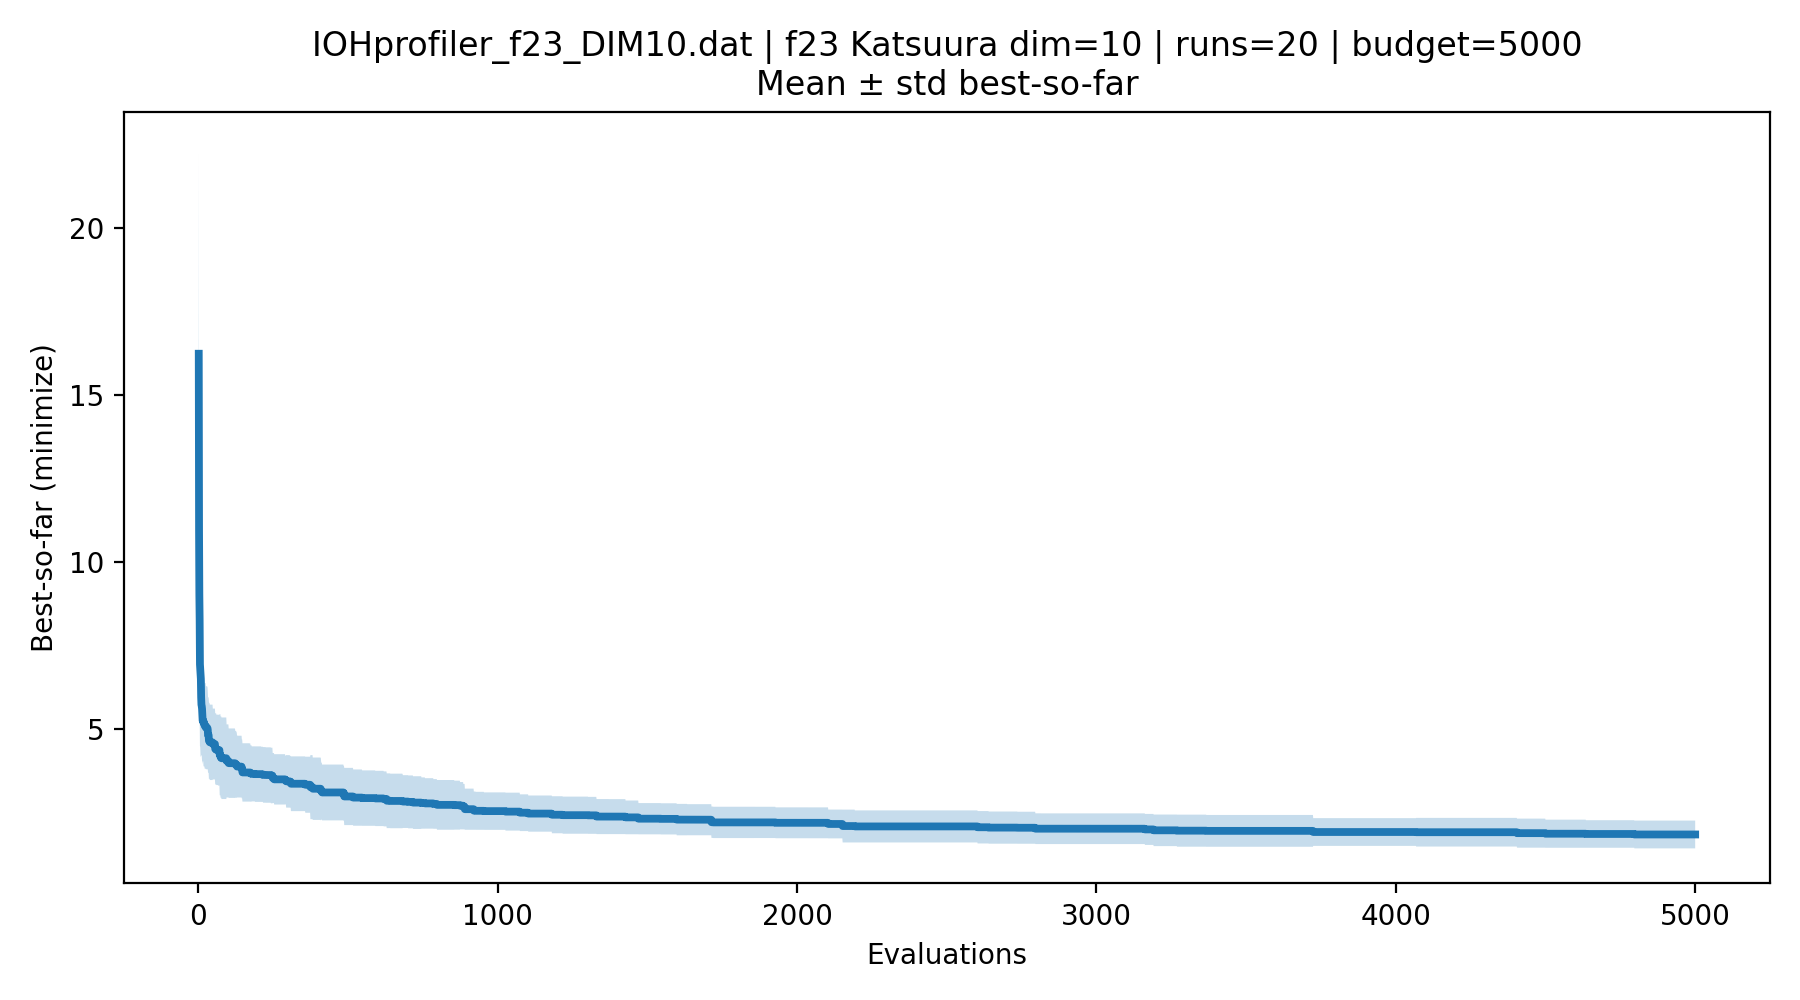
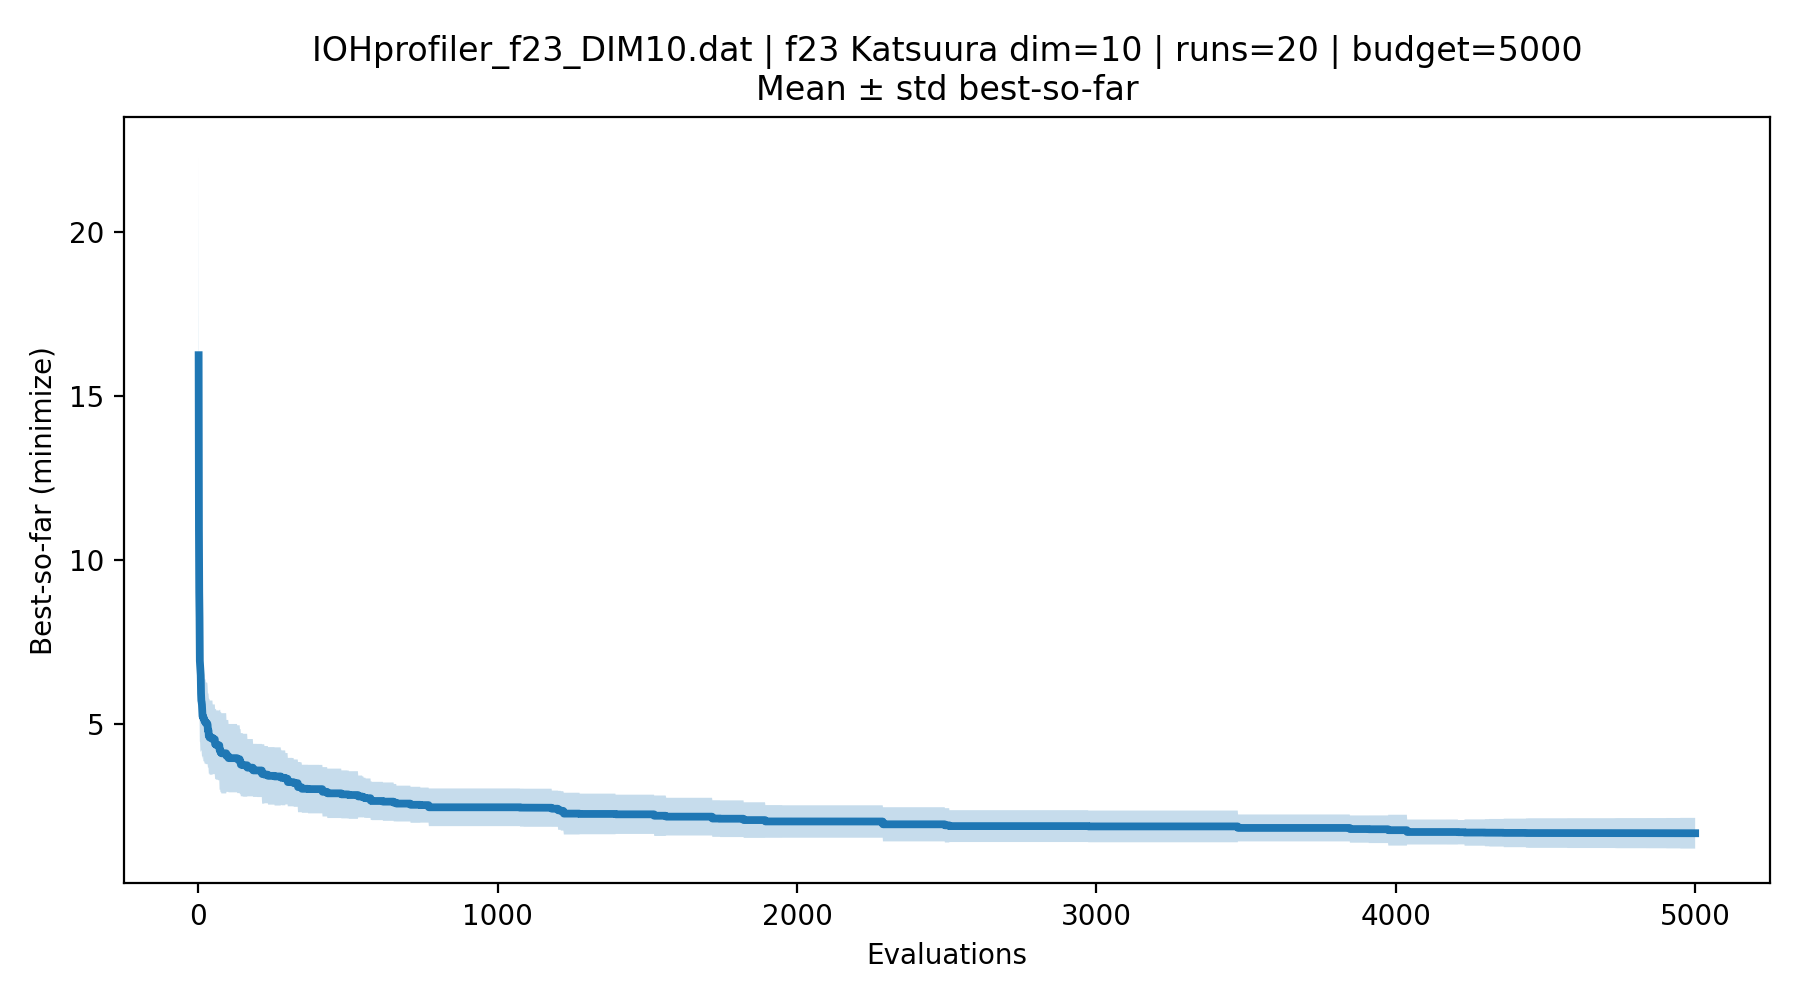
Update

diff --git a/s4822285_ES_v2.py b/s4822285_ES_v2.py
@@ -230,12 +230,13 @@ def _read_ioh_dat(path: str) -> np.ndarray:
     rows = []
     with open(path, "r", encoding="utf-8") as f:
         for line in f:
-            if not line or line[0] == "#":
+            line = line.strip()
+            if not line or line.startswith("#") or line.lower().startswith("evaluations"):
                 continue
-            parts = line.strip().split()
-            if len(parts) >= 3:
-                rows.append((int(float(parts[0])), float(parts[2])))
-    return np.array(rows, dtype=float)  # eval, best_y
+            parts = line.split()
+            if len(parts) >= 2:
+                rows.append((int(float(parts[0])), float(parts[1])))
+    return np.array(rows, dtype=float)  # eval, raw_y
 
 
 def load_runs_best_so_far(folder: str) -> List[np.ndarray]:

diff --git a/plot_ioh_results.py b/plot_ioh_results.py
@@ -165,7 +165,7 @@ def main():
     ap = argparse.ArgumentParser()
     ap.add_argument("--logdir", type=str, default="data", help="Root folder containing IOHprofiler logs")
     ap.add_argument("--outdir", type=str, default="plots", help="Where to write plots")
-    ap.add_argument("--budget", type=int, required=True, help="Evaluation budget per run (GA=5000, ES=50000)")
+    ap.add_argument("--budget", type=int, required=True, help="Evaluation budget per run (GA=5000, ES=5000)")
     args = ap.parse_args()
 
     root = Path(args.logdir)

diff --git a/2526-S1 Evolutionary Algorithms - 11202025 - 1142 AM/ES.py b/2526-S1 Evolutionary Algorithms - 11202025 - 1142 AM/ES.py
@@ -18,6 +18,7 @@ def studentnumber1_studentnumber2_ES(problem):
     # which is incremented by 1 whenever you call `problem(x)`.
     # You could also maintain a counter of function evaluations if you prefer.
     while problem.state.evaluations < budget:
+        ...
         # please implement the mutation, crossover, selection here
         # .....
         # this is how you evaluate one solution `x`
